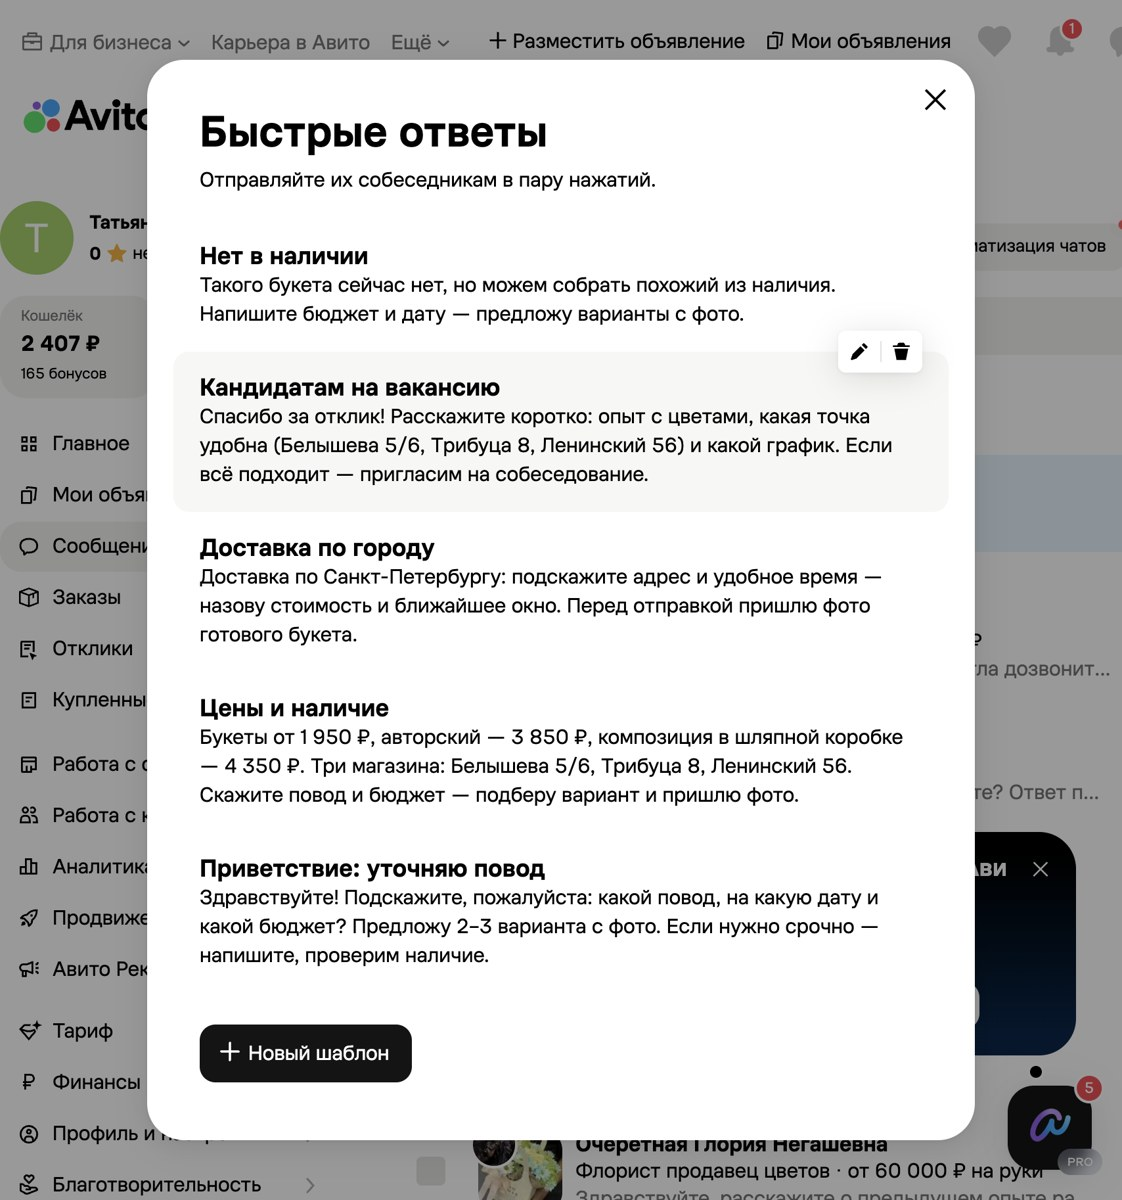
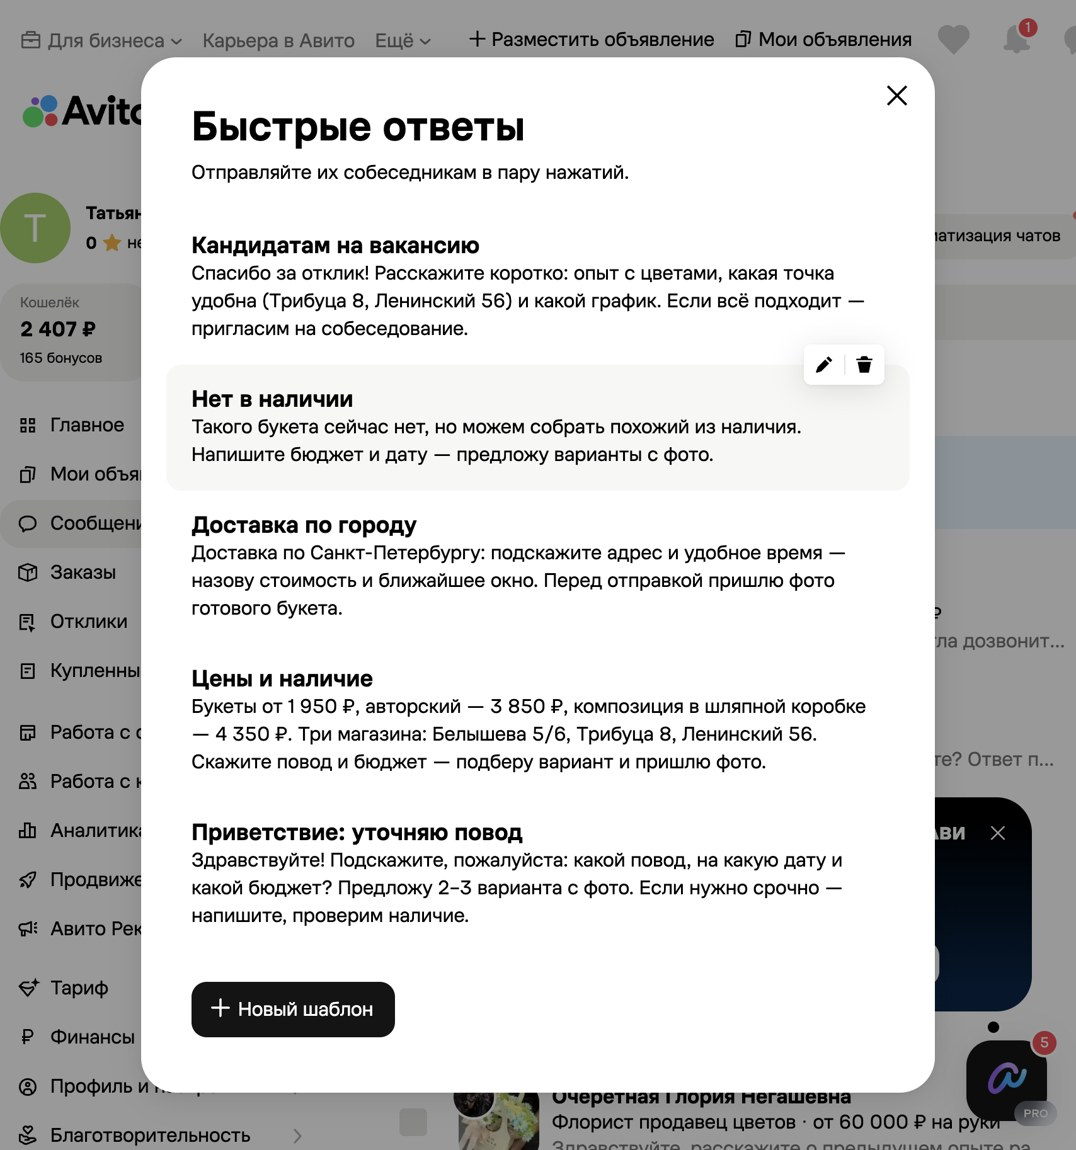
Авито: из ответа кандидатам убран адрес Белышева

diff --git a/ii-marketolog/tools/js/edit-kandidat.js b/ii-marketolog/tools/js/edit-kandidat.js
@@ -1,0 +1,12 @@
+(() => {
+  const blocks = [...document.querySelectorAll('*')].filter(e => (e.textContent||'').includes('Кандидатам на вакансию') && (e.textContent||'').length < 300);
+  if (!blocks.length) return 'нет блока';
+  const block = blocks[blocks.length-1];
+  let p = block;
+  for (let i=0;i<6 && p;i++){
+    const btn = p.querySelector && [...p.querySelectorAll('button')].find(b=>{const r=b.getBoundingClientRect(); return r.width>0 && r.width<60 && (b.innerText||'').trim()==='';});
+    if (btn) { btn.click(); return 'нажал кнопку редактирования'; }
+    p = p.parentElement;
+  }
+  return 'кнопка не найдена';
+})()

diff --git a/ii-marketolog/tools/js/kandidat-rect.js b/ii-marketolog/tools/js/kandidat-rect.js
@@ -1,0 +1,7 @@
+(() => {
+  const el = [...document.querySelectorAll('*')].find(e => (e.textContent||'').trim().startsWith('Кандидатам на вакансию') && (e.textContent||'').length < 300);
+  if (!el) return 'нет';
+  el.scrollIntoView({block:'center'});
+  const r = el.getBoundingClientRect();
+  return JSON.stringify({x:Math.round(r.left+r.width/2), y:Math.round(r.top+20)});
+})()

diff --git a/ii-marketolog/tools/js/select-all-msg.js b/ii-marketolog/tools/js/select-all-msg.js
@@ -1,0 +1,1 @@
+(() => { const t=[...document.querySelectorAll('textarea')].find(x=>(x.placeholder||'').includes('Ваш текст')); if(!t) return 'нет'; t.focus(); t.setSelectionRange(0, t.value.length); return 'выделено '+t.value.length; })()

diff --git a/Журнал.md b/Журнал.md
@@ -167,3 +167,4 @@
 - 2026-11-10 — Расхождение по рекламе: в кабинете ≈9 000 ₽/мес, в профиле записано 5 000 ₽/мес. Внесено в `baza-znaniy.md` как спорная цифра; до сверки в планах обе. Добавлена UTM-разметка — `marketing-otdel/processy/utm-razmetka.md`.
 - Собрал прототип бота для Авито: `agent-marketolog/bot/avito_bot.py` — диалог до готовой заявки, проверен на демо. План и условия подключения — `bot/avito-bot-plan.md`. Официальный путь: Messenger API по подписке; браузерная автоматизация запрещена.
 - Авито: созданы 5 быстрых ответов (приветствие, цены, доставка, кандидатам, нет в наличии) — скриншот `ii-marketolog/materials/avito-bystrye-otvety-2026-11-11.jpg`. Итог в Obsidian: `silver-song-flowers/2026-11-11-avito-bystrye-otvety.md`.
+- Авито: из шаблона «Кандидатам на вакансию» убран адрес Белышева — осталось «Трибуца 8, Ленинский 56».
